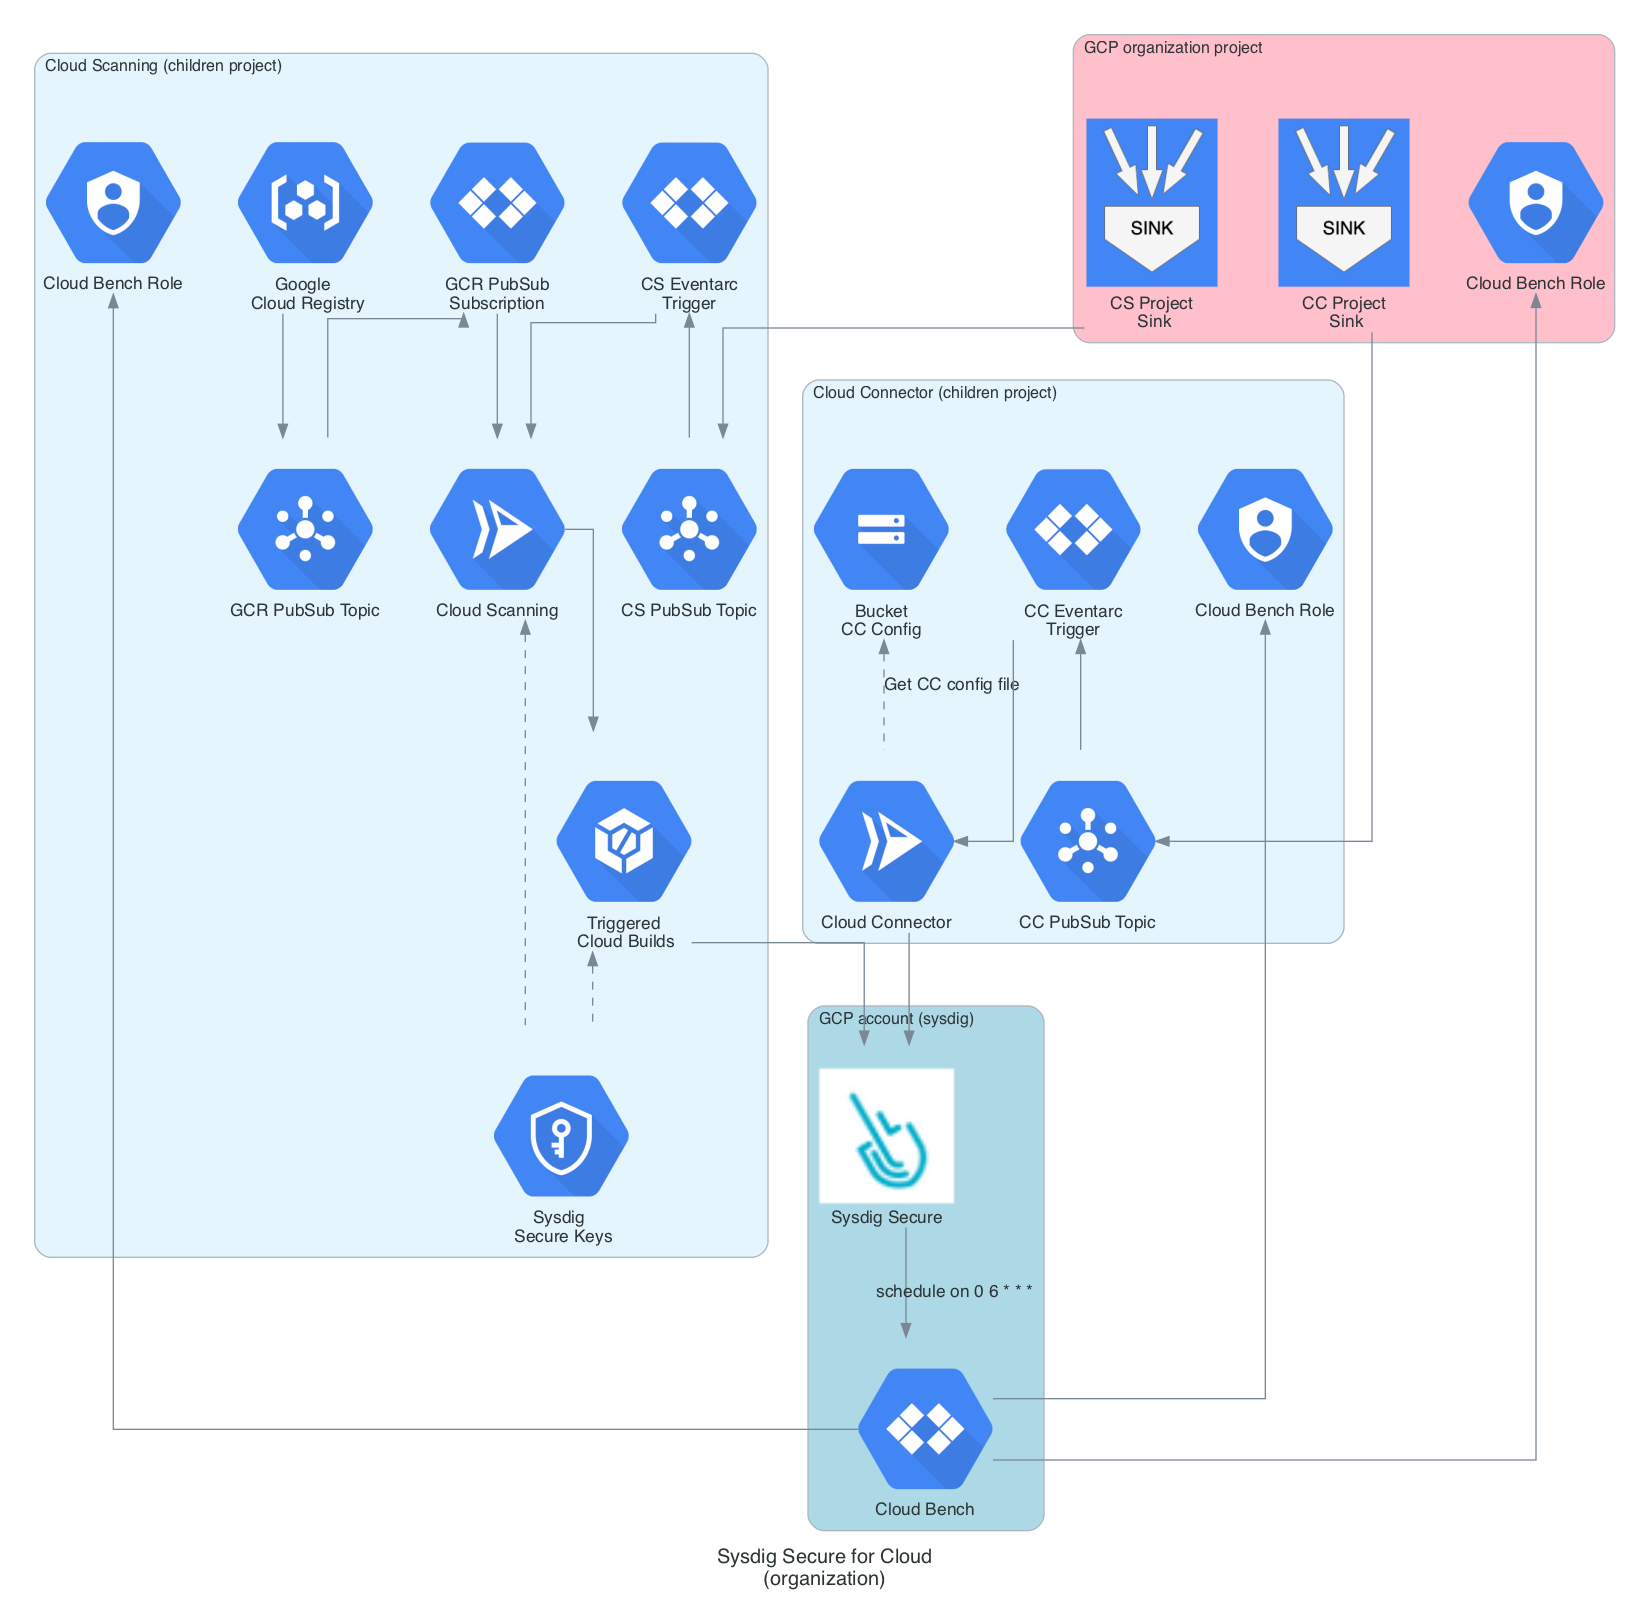
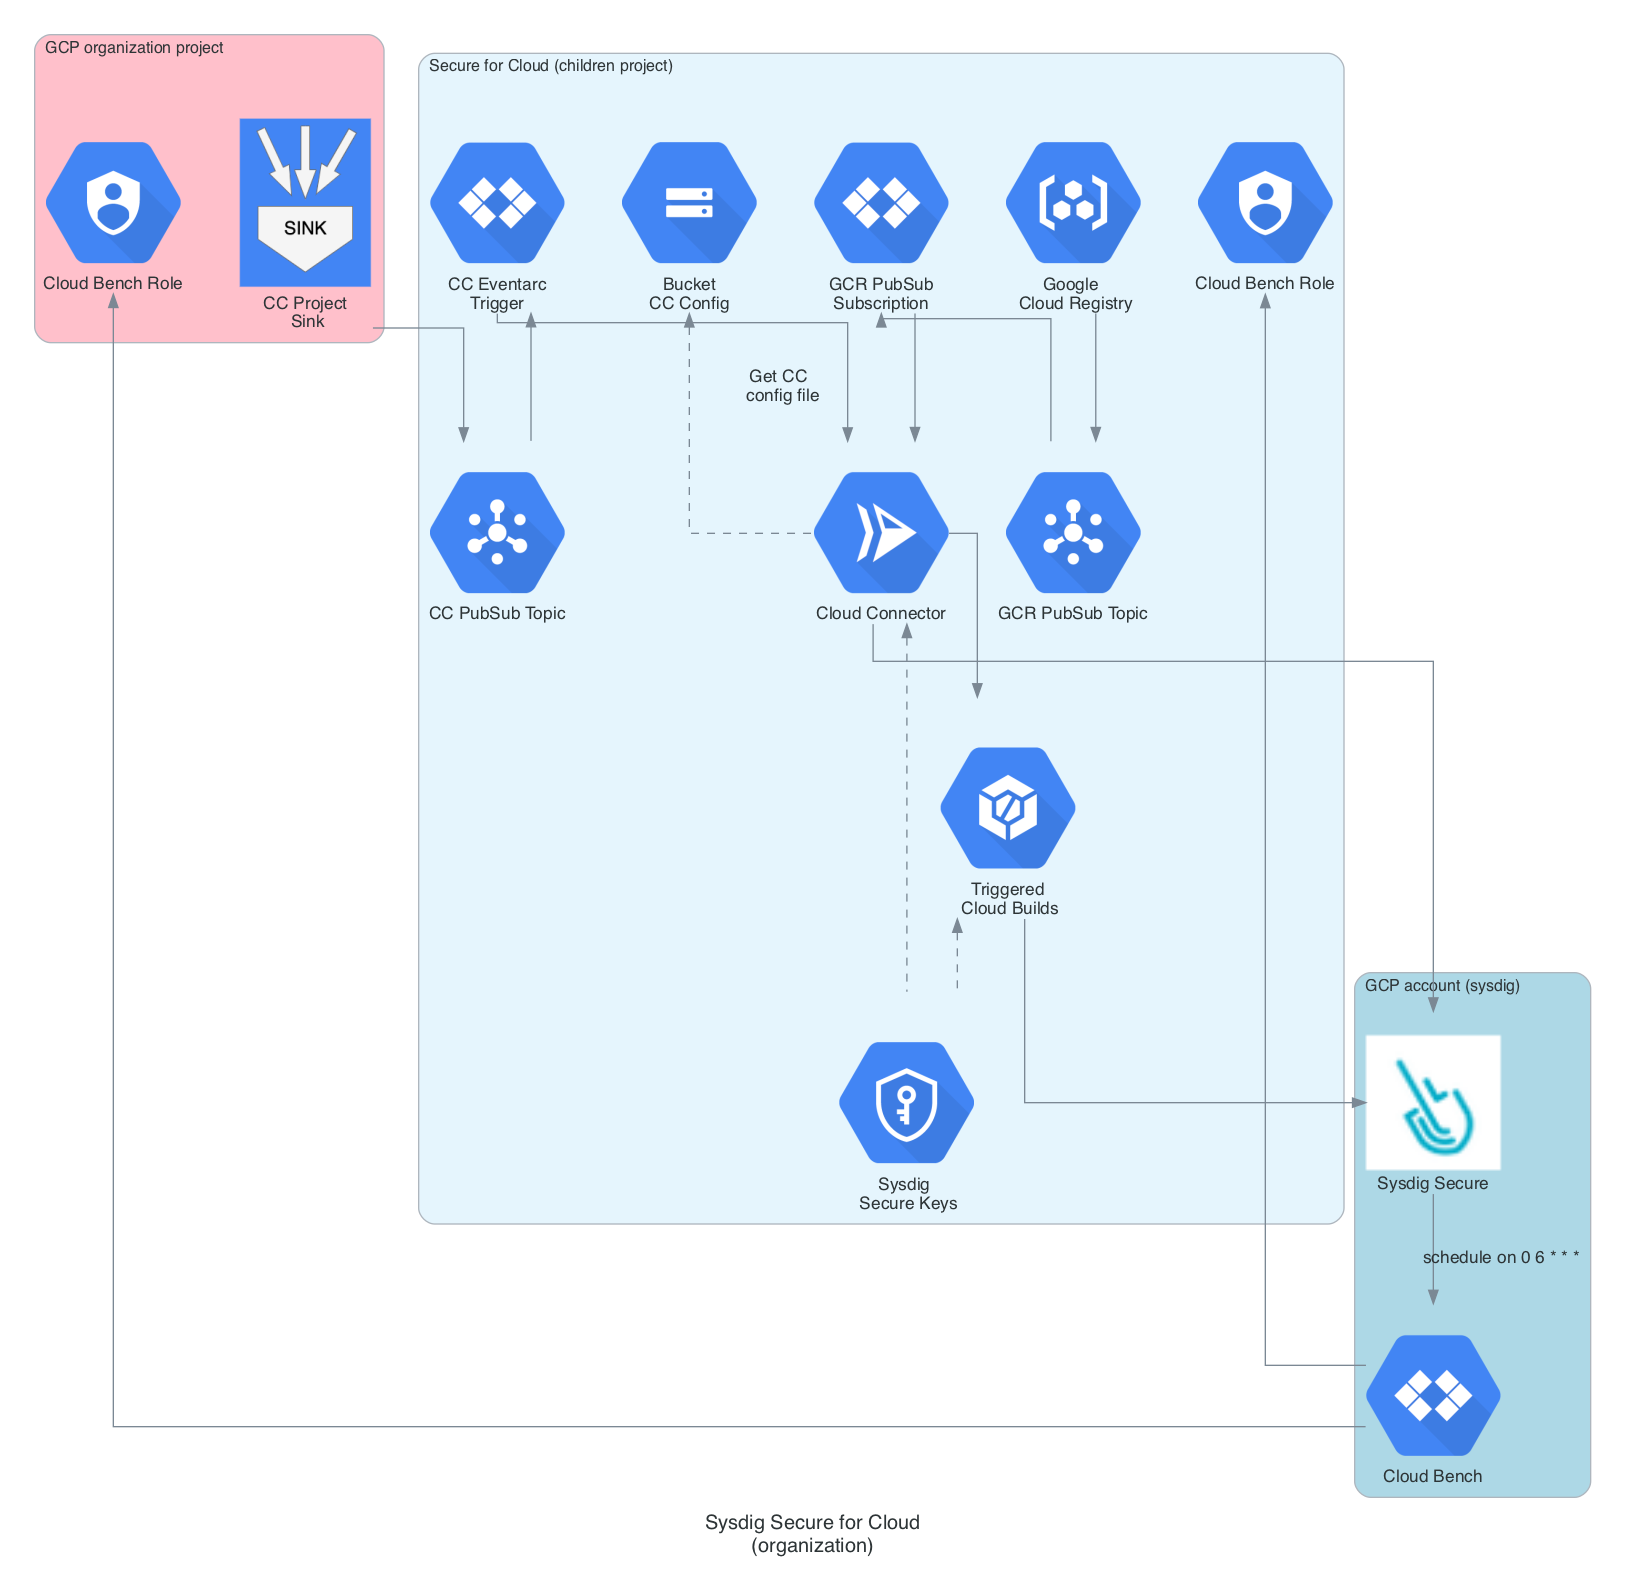
docs: Adapt diagrams to new deployment (#77)

diff --git a/examples/organization/diagram-org.py b/examples/organization/diagram-org.py
@@ -28,45 +28,35 @@ with Diagram("Sysdig Secure for Cloud\n(organization)", graph_attr=diagram_attr,
         sds >> Edge(label="schedule on 0 6 * * *") >> bench
     with Cluster("GCP organization project", graph_attr={"bgcolor": "pink"}):
         ccProjectSink = Custom("\nCC Project\n Sink", "../../resources/sink.png")
-        csProjectSink = Custom("\nCS Project\n Sink", "../../resources/sink.png")
         orgBenchRole = Iam("Cloud Bench Role")
 
-    with Cluster("Cloud Connector (children project)"):
+    with Cluster("Secure for Cloud (children project)"):
         ccBenchRole = Iam("Cloud Bench Role")
         ccPubSub = PubSub("CC PubSub Topic")
         ccEventarc = Code("CC Eventarc\nTrigger")
         ccCloudRun = Run("Cloud Connector")
         bucket = GCS("Bucket\nCC Config")
+        keys = KMS("Sysdig \n Secure Keys")
 
-        bucket <<  Edge(style="dashed", label="Get CC config file") << ccCloudRun
+        ccCloudRun << Edge(style="dashed") << keys
+        bucket <<  Edge(style="dashed", label="Get CC \n config file") << ccCloudRun
         ccEventarc >> ccCloudRun
         ccEventarc << ccPubSub
         ccProjectSink >> ccPubSub
 
-    ccCloudRun >> sds
-    with Cluster("Cloud Scanning (children project)"):
-        csBenchRole = Iam("Cloud Bench Role")
-        keys = KMS("Sysdig \n Secure Keys")
-        csPubSub = PubSub("CS PubSub Topic")
         gcrPubSub = PubSub("GCR PubSub Topic")
-        csEventarc = Code("CS Eventarc\nTrigger")
         gcrSubscription = Code("GCR PubSub\nSubscription")
-        csCloudrun = Run("Cloud Scanning")
         csCloudBuild = Build("Triggered\n Cloud Builds")
         gcr = GCR("Google \n Cloud Registry")
 
+        gcrSubscription >> ccCloudRun
+        ccCloudRun >> csCloudBuild
         gcrSubscription << gcrPubSub
-        csEventarc >> csCloudrun
-        csEventarc << csPubSub
-        csCloudrun << Edge(style="dashed") << keys
         csCloudBuild << Edge(style="dashed") << keys
-        gcrSubscription >> csCloudrun
-        csProjectSink >> csPubSub
-        csCloudrun >> csCloudBuild
         gcr >> gcrPubSub
     csCloudBuild >> sds
+    ccCloudRun >> sds
 
 
-    csBenchRole << bench
     ccBenchRole << bench
     orgBenchRole << bench

diff --git a/examples/single-project/diagram-single.py b/examples/single-project/diagram-single.py
@@ -34,7 +34,7 @@ with Diagram("Sysdig Secure for Cloud\n(single project)", graph_attr=diagram_att
         sds >> Edge(label="schedule on 0 6 * * *") >> bench
 
     with Cluster("GCP project"):
-        with Cluster("Cloud Connector"):
+        with Cluster("Secure for Cloud"):
             ccBenchRole = Iam("Cloud Bench Role")
             ccProjectSink = Custom("\nCC Project\n Sink", "../../resources/sink.png")
             ccPubSub = PubSub("CC PubSub Topic")
@@ -47,28 +47,20 @@ with Diagram("Sysdig Secure for Cloud\n(single project)", graph_attr=diagram_att
             ccEventarc << ccPubSub
             ccProjectSink >> ccPubSub
 
-        ccCloudRun >> sds
-        with Cluster("Cloud Scanning"):
-            csBenchRole = Iam("Cloud Bench Role")
+            ccCloudRun >> sds
             keys = KMS("Sysdig Keys")
-            csProjectSink = Custom("\nCS Project\n Sink", "../../resources/sink.png")
-            csPubSub = PubSub("CS PubSub Topic")
             gcrPubSub = PubSub("GCR PubSub Topic")
             csEventarc = Code("CS Eventarc\nTrigger")
             gcrSubscription = Code("GCR PubSub\nSubscription")
-            csCloudrun = Run("Cloud Scanning")
             csCloudBuild = Build("Triggered\n Cloud Builds")
             gcr = GCR("Google \n Cloud Registry")
 
             gcrSubscription << gcrPubSub
-            csEventarc >> csCloudrun
-            csEventarc << csPubSub
-            csCloudrun << keys
+            csEventarc >> ccCloudRun
+            ccCloudRun << keys
             csCloudBuild << keys
-            gcrSubscription >> csCloudrun
-            csProjectSink >> csPubSub
-            csCloudrun >> csCloudBuild
+            gcrSubscription >> ccCloudRun
+            ccCloudRun >> csCloudBuild
             gcr >> gcrPubSub
-        csCloudBuild >> sds
-    csBenchRole << bench
+            csCloudBuild >> sds
     ccBenchRole << bench
